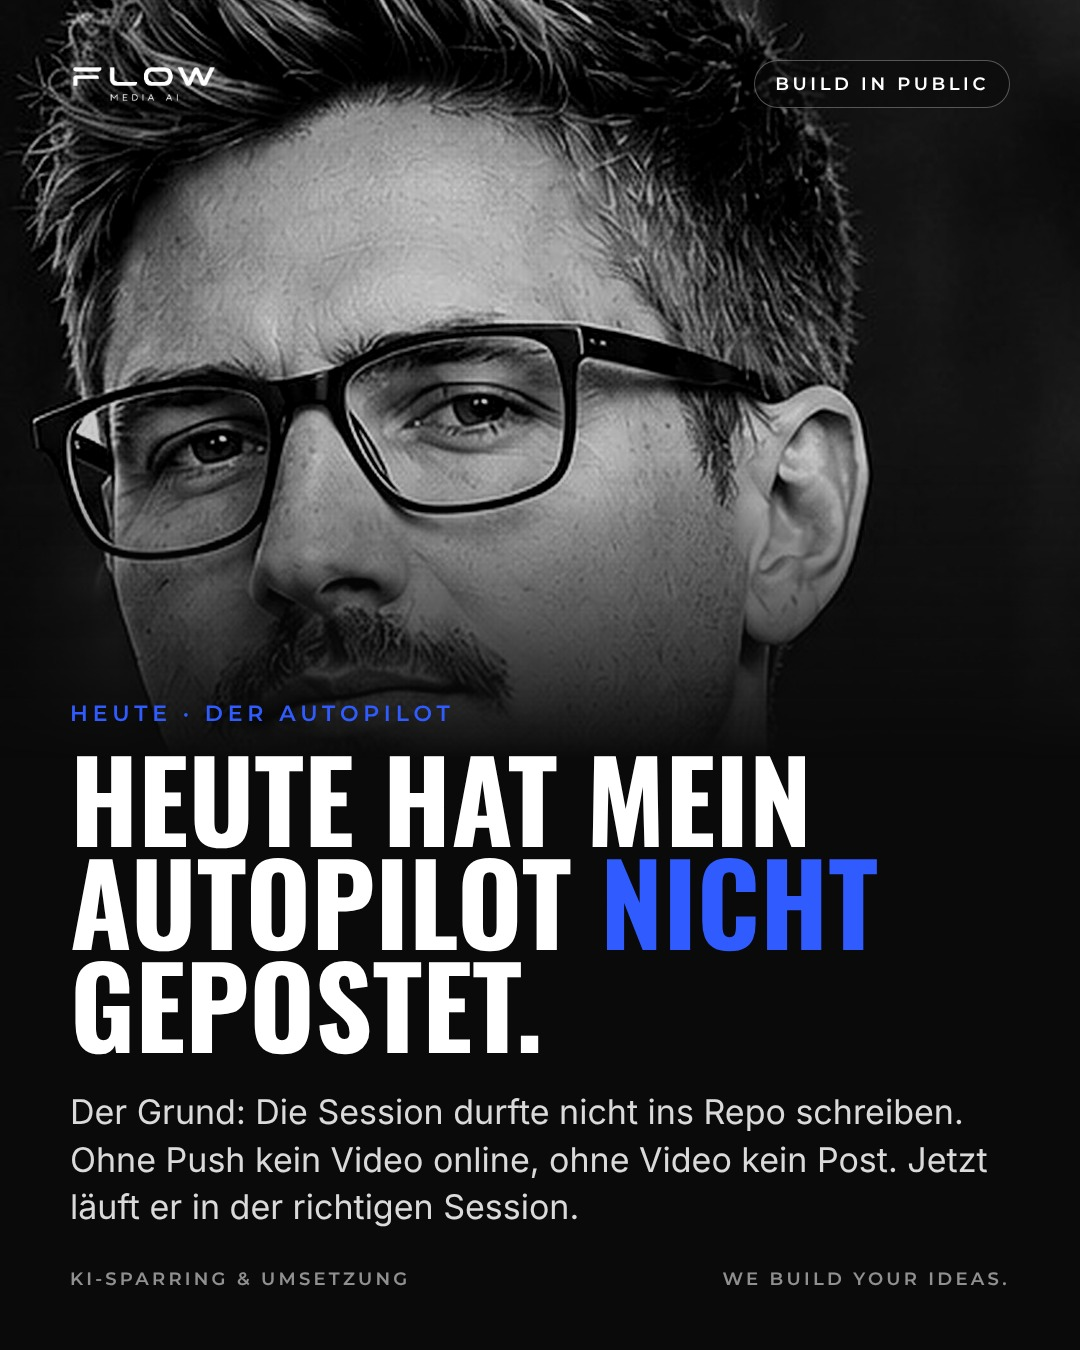
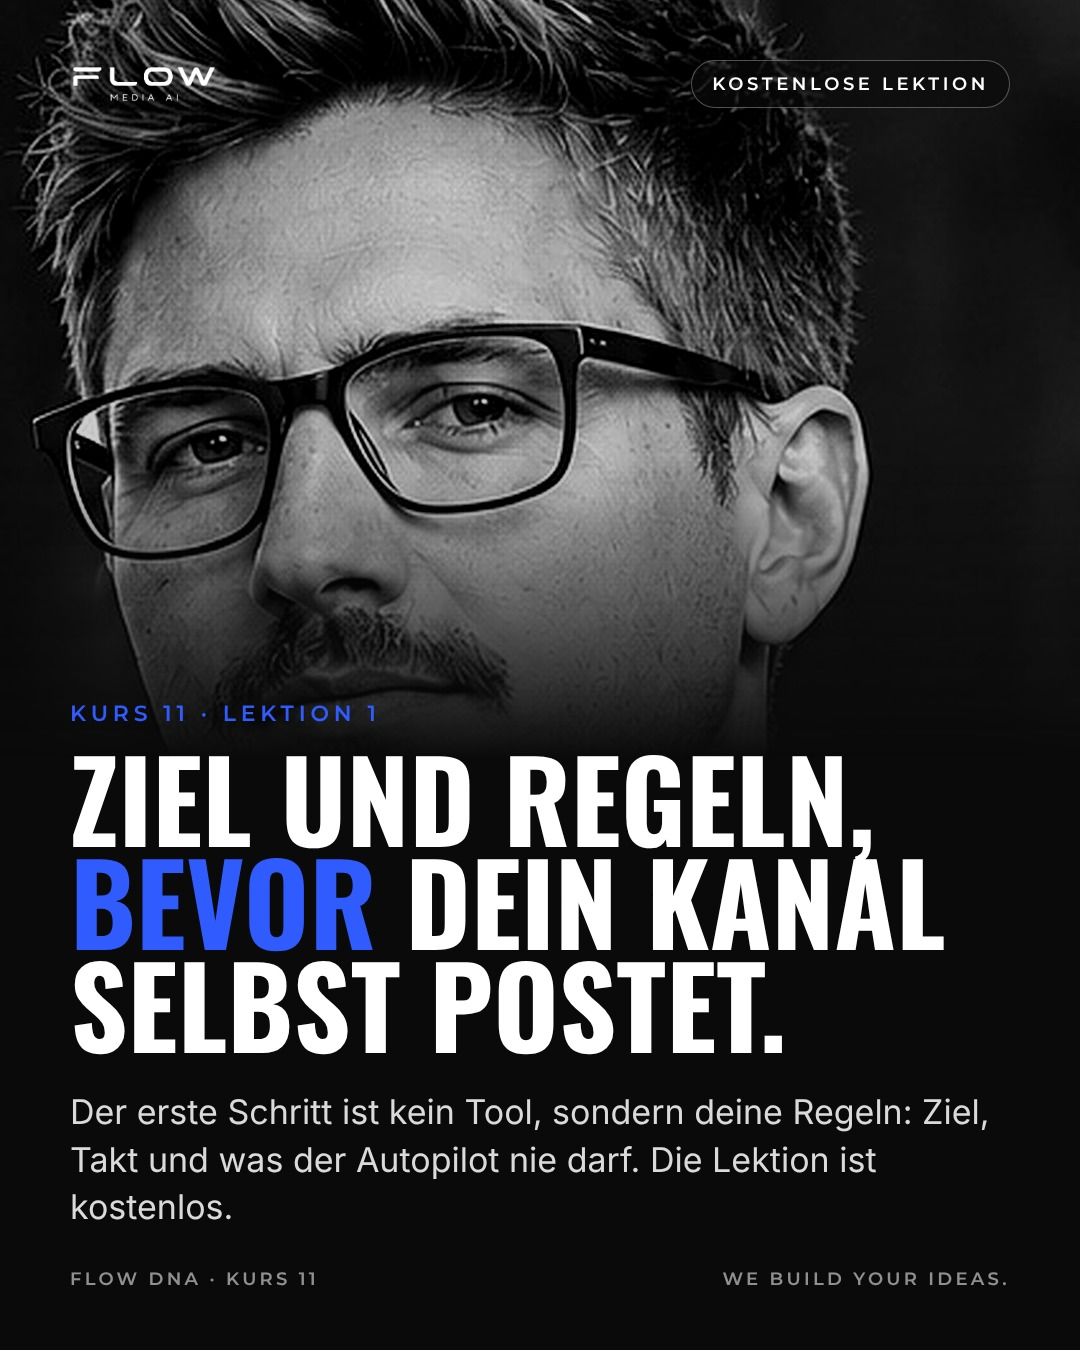
Post P025: kostenlose Kurs-Lektion 1 (Autopilot, Ziel und Regeln)
Claude-Session: https://claude.ai/code/session_013fteYFceKiG7Uk7Z2ie8Jy

diff --git a/content/posts/P025-autopilot-haken/post.html b/content/posts/P025-autopilot-haken/post.html
@@ -15,9 +15,9 @@ p{margin-top:34px;font:400 34px/1.4 Inter;color:rgba(255,255,255,.85)}
 .f{position:absolute;left:70px;right:70px;bottom:60px;display:flex;justify-content:space-between;font:600 18px Montserrat;letter-spacing:.18em;text-transform:uppercase;color:rgba(255,255,255,.55)}
 </style></head><body>
 <img class="ph" src="portrait_front.jpg" alt="">
-<div class="top"><img src="logo_flow.png" alt=""><span class="tag">Build in public</span></div>
-<div class="c"><div class="k">Heute · Der Autopilot</div>
-<h1>Heute hat mein Autopilot <span>nicht</span> gepostet.</h1>
-<p>Der Grund: Die Session durfte nicht ins Repo schreiben. Ohne Push kein Video online, ohne Video kein Post. Jetzt läuft er in der richtigen Session.</p></div>
-<div class="f"><span>KI-Sparring & Umsetzung</span><span>We build your ideas.</span></div>
+<div class="top"><img src="logo_flow.png" alt=""><span class="tag">Kostenlose Lektion</span></div>
+<div class="c"><div class="k">Kurs 11 · Lektion 1</div>
+<h1>Ziel und Regeln, <span>bevor</span> dein Kanal selbst postet.</h1>
+<p>Der erste Schritt ist kein Tool, sondern deine Regeln: Ziel, Takt und was der Autopilot nie darf. Die Lektion ist kostenlos.</p></div>
+<div class="f"><span>Flow DNA · Kurs 11</span><span>We build your ideas.</span></div>
 </body></html>
